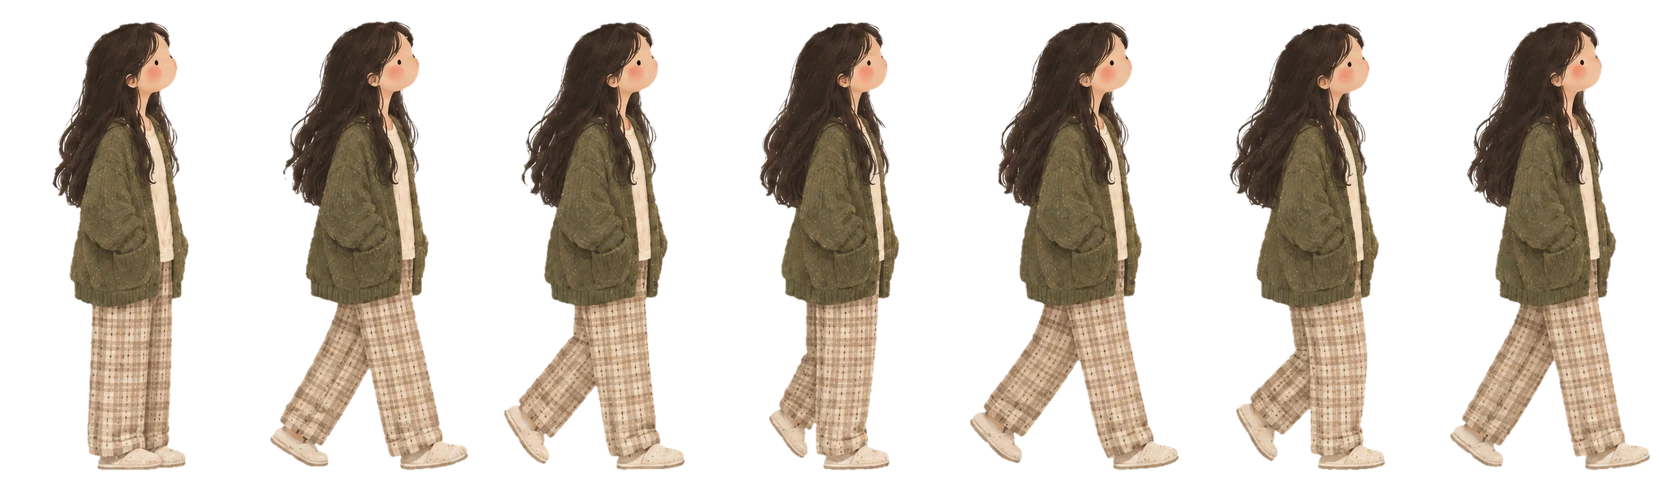
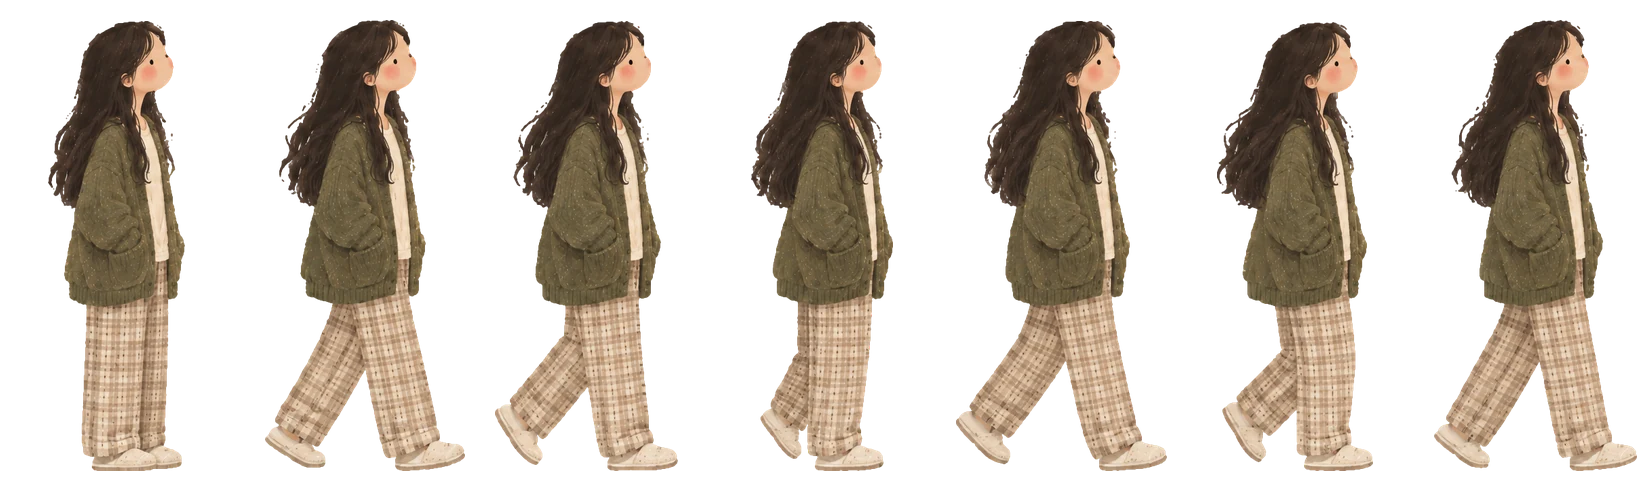
Nhân vật: cắt nền sạch hơn, thêm ảnh chính diện (đứng + đi về phía người chơi), phóng to
Claude-Session: https://claude.ai/code/session_01NNufcRGgGR466W2diK9eTR

diff --git a/src/entities/Character.ts b/src/entities/Character.ts
@@ -4,52 +4,62 @@ import { Gender } from "../core/GameState";
 
 export const CHARACTERS = charData.characters;
 
-/** Nạp spritesheet của cả hai nhân vật (gọi trong preload). */
+/** Nạp spritesheet (nhìn ngang và chính diện) của cả hai nhân vật. Gọi trong preload. */
 export function loadCharacterSheets(scene: Phaser.Scene): void {
   for (const [id, c] of Object.entries(CHARACTERS)) {
-    scene.load.spritesheet(`char-${id}`, c.sheet, { frameWidth: c.frameWidth, frameHeight: c.frameHeight });
+    for (const view of ["side", "front"] as const) {
+      const v = c[view];
+      scene.load.spritesheet(`char-${id}-${view}`, v.sheet, { frameWidth: v.frameWidth, frameHeight: v.frameHeight });
+    }
   }
 }
 
-/** Tạo hoạt ảnh đứng yên và đi bộ (gọi một lần sau khi nạp xong). */
+/** Tạo hoạt ảnh: đứng yên chính diện, đi ngang, đi về phía người chơi. Gọi một lần sau khi nạp xong. */
 export function createCharacterAnims(scene: Phaser.Scene): void {
   for (const id of Object.keys(CHARACTERS)) {
-    const key = `char-${id}`;
-    if (scene.anims.exists(`${key}-walk`)) continue;
-    scene.anims.create({ key: `${key}-idle`, frames: [{ key, frame: 0 }], frameRate: 1 });
-    scene.anims.create({
-      key: `${key}-walk`,
-      frames: scene.anims.generateFrameNumbers(key, { start: 1, end: 6 }),
-      frameRate: charData.walkFps,
-      repeat: -1,
-    });
+    if (scene.anims.exists(`${id}-idle`)) continue;
+    scene.anims.create({ key: `${id}-idle`, frames: [{ key: `char-${id}-front`, frame: 0 }], frameRate: 1 });
+    for (const view of ["side", "front"] as const) {
+      const key = `char-${id}-${view}`;
+      scene.anims.create({
+        key: `${id}-walk-${view}`,
+        frames: scene.anims.generateFrameNumbers(key, { start: 1, end: 6 }),
+        frameRate: charData.walkFps,
+        repeat: -1,
+      });
+    }
   }
 }
 
 /** Nhân vật người chơi: tranh gouache thật, đi bộ frame-by-frame ~7 fps. */
 export class Character extends Phaser.GameObjects.Sprite {
   private moveTween?: Phaser.Tweens.Tween;
-  private readonly key: string;
+  private readonly id: Gender;
 
   constructor(scene: Phaser.Scene, x: number, y: number, gender: Gender) {
-    super(scene, x, y, `char-${gender}`, 0);
-    this.key = `char-${gender}`;
+    super(scene, x, y, `char-${gender}-front`, 0);
+    this.id = gender;
     this.setOrigin(0.5, 0.98);
     scene.add.existing(this);
-    this.play(`${this.key}-idle`);
+    this.play(`${gender}-idle`);
     this.refresh();
   }
 
-  /** Đi tới (x, y). Promise xong khi đến nơi hoặc bị hủy. */
+  /** Đi tới (x, y). Đi ngang dùng dáng nhìn ngang; đi xuống phía người chơi thì dùng dáng chính diện. */
   walkTo(x: number, y: number, speed = 260): Promise<void> {
     this.moveTween?.stop();
-    const dist = Phaser.Math.Distance.Between(this.x, this.y, x, y);
-    if (Math.abs(x - this.x) > 4) this.setFlipX(x < this.x);
-    this.play(`${this.key}-walk`, true);
+    const dx = x - this.x;
+    const dy = y - this.y;
+    const dist = Math.hypot(dx, dy);
+    const towardViewer = dy > 0 && Math.abs(dy) > Math.abs(dx) * 1.2;
+
+    this.setFlipX(!towardViewer && dx < 0);
+    this.play(`${this.id}-walk-${towardViewer ? "front" : "side"}`, true);
 
     return new Promise((resolve) => {
       const finish = () => {
-        this.play(`${this.key}-idle`);
+        this.setFlipX(false);
+        this.play(`${this.id}-idle`); // dừng lại thì quay mặt về phía người chơi
         resolve();
       };
       this.moveTween = this.scene.tweens.add({
@@ -68,6 +78,6 @@ export class Character extends Phaser.GameObjects.Sprite {
   private refresh(): void {
     this.setDepth(this.y);
     // Gần màn hình hơn thì to hơn một chút.
-    this.setScale(0.34 + ((this.y - 410) / 280) * 0.12);
+    this.setScale(0.44 + ((this.y - 410) / 280) * 0.16);
   }
 }

diff --git a/src/scenes/SetupScene.ts b/src/scenes/SetupScene.ts
@@ -38,8 +38,8 @@ export class SetupScene extends Phaser.Scene {
     for (const [id, c] of Object.entries(CHARACTERS)) {
       const card = el("div", "card card-char");
       const face = el("div", "char-face");
-      face.style.backgroundImage = `url(${c.sheet})`;
-      face.style.aspectRatio = `${c.frameWidth} / ${c.frameHeight}`;
+      face.style.backgroundImage = `url(${c.front.sheet})`;
+      face.style.aspectRatio = `${c.front.frameWidth} / ${c.front.frameHeight}`;
       face.style.backgroundSize = "700% 100%"; // 7 khung, chỉ hiện khung 0 (đứng yên)
       card.appendChild(face);
       const name = el("span", "card-name");

diff --git a/index.html b/index.html
@@ -46,7 +46,7 @@
         content: ""; position: absolute; top: -6%; right: -14%; width: 38%; aspect-ratio: 200 / 162;
         background: url(assets/ui/ornament.webp) center / 100% 100% no-repeat;
       }
-      #ui .card-char { width: 12cqw; }
+      #ui .card-char { width: 8.5cqw; }
       #ui .char-face { width: 100%; background-repeat: no-repeat; background-position: 0 0; }
       #ui .card-apt { width: 18cqw; }
       #ui .card-apt img { width: 100%; }

diff --git a/tools/slice_sprites.py b/tools/slice_sprites.py
@@ -31,10 +31,27 @@ def main() -> None:
     keep = np.isin(lab, [i + 1 for i, s in enumerate(sizes) if s > 1500])
     fg = ndi.binary_fill_holes(keep)
 
-    # Viền: co mask 2px rồi làm mềm 1px, để không còn quầng màu giấy quanh nhân vật.
-    core = ndi.binary_erosion(fg, iterations=2)
-    alpha = ndi.gaussian_filter(core.astype(np.float32), sigma=1.0)
-    alpha = np.clip(alpha * 1.25 - 0.1, 0, 1)
+    # Kẽ giấy kẹt giữa các sợi tóc (màu y như nền, nằm sát mép ngoài, ở nửa trên thân) thì bỏ đi.
+    # Không áp dụng cho nửa dưới để giữ giày trắng.
+    ys_all = np.where(fg.any(axis=1))[0]
+    y_cut = ys_all.min() + int((ys_all.max() - ys_all.min()) * 0.62)
+    near_edge = ndi.distance_transform_edt(fg) < 16
+    lum = img.mean(axis=2)
+    lowsat = (img.max(axis=2) - img.min(axis=2)) < 22  # giấy gần như không có sắc; da, áo kem thì có
+    pockets = fg & near_edge & ((dist < 14) | (lowsat & (lum > 135)))
+    pockets[y_cut:, :] = False
+    fg = fg & ~pockets
+    fg = ndi.binary_opening(fg, iterations=1)
+
+    # Khử quầng giấy: các điểm sát mép bị lẫn màu giấy, nên lấy màu của điểm gần nhất nằm sâu bên trong
+    # nhân vật (core) thay vào; còn độ trong suốt lấy từ mask đã làm mềm nhẹ.
+    core = ndi.binary_erosion(fg, iterations=3)
+    _, idx = ndi.distance_transform_edt(~core, return_indices=True)
+    nearest = img[idx[0], idx[1]]
+    band = ndi.binary_dilation(fg, iterations=2) & ~core
+    img = np.where(band[..., None], nearest, img)
+    soft = ndi.gaussian_filter(fg.astype(np.float32), sigma=0.9)
+    alpha = np.clip((soft - 0.3) / 0.45, 0, 1)
 
     # Chia thành n_frames cụm theo các khoảng trống lớn nhất trên trục x.
     cols = fg.any(axis=0)
